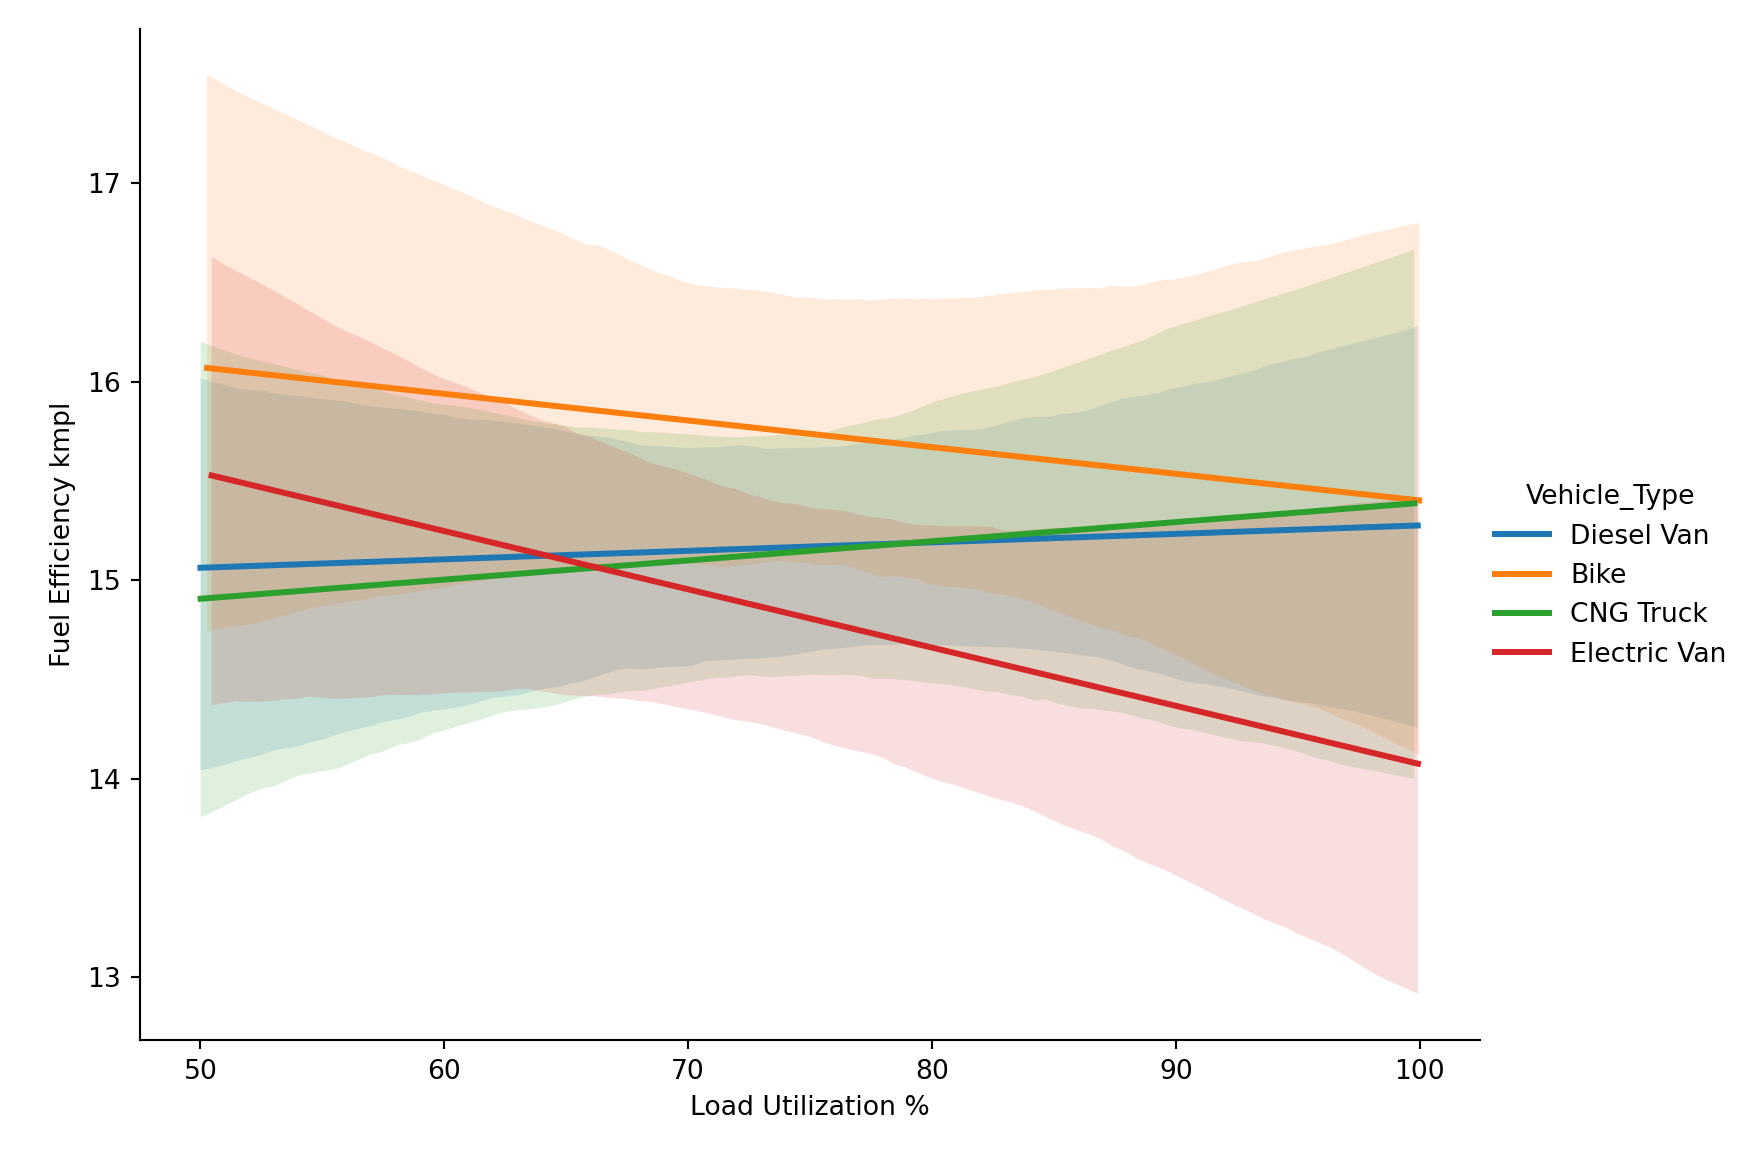
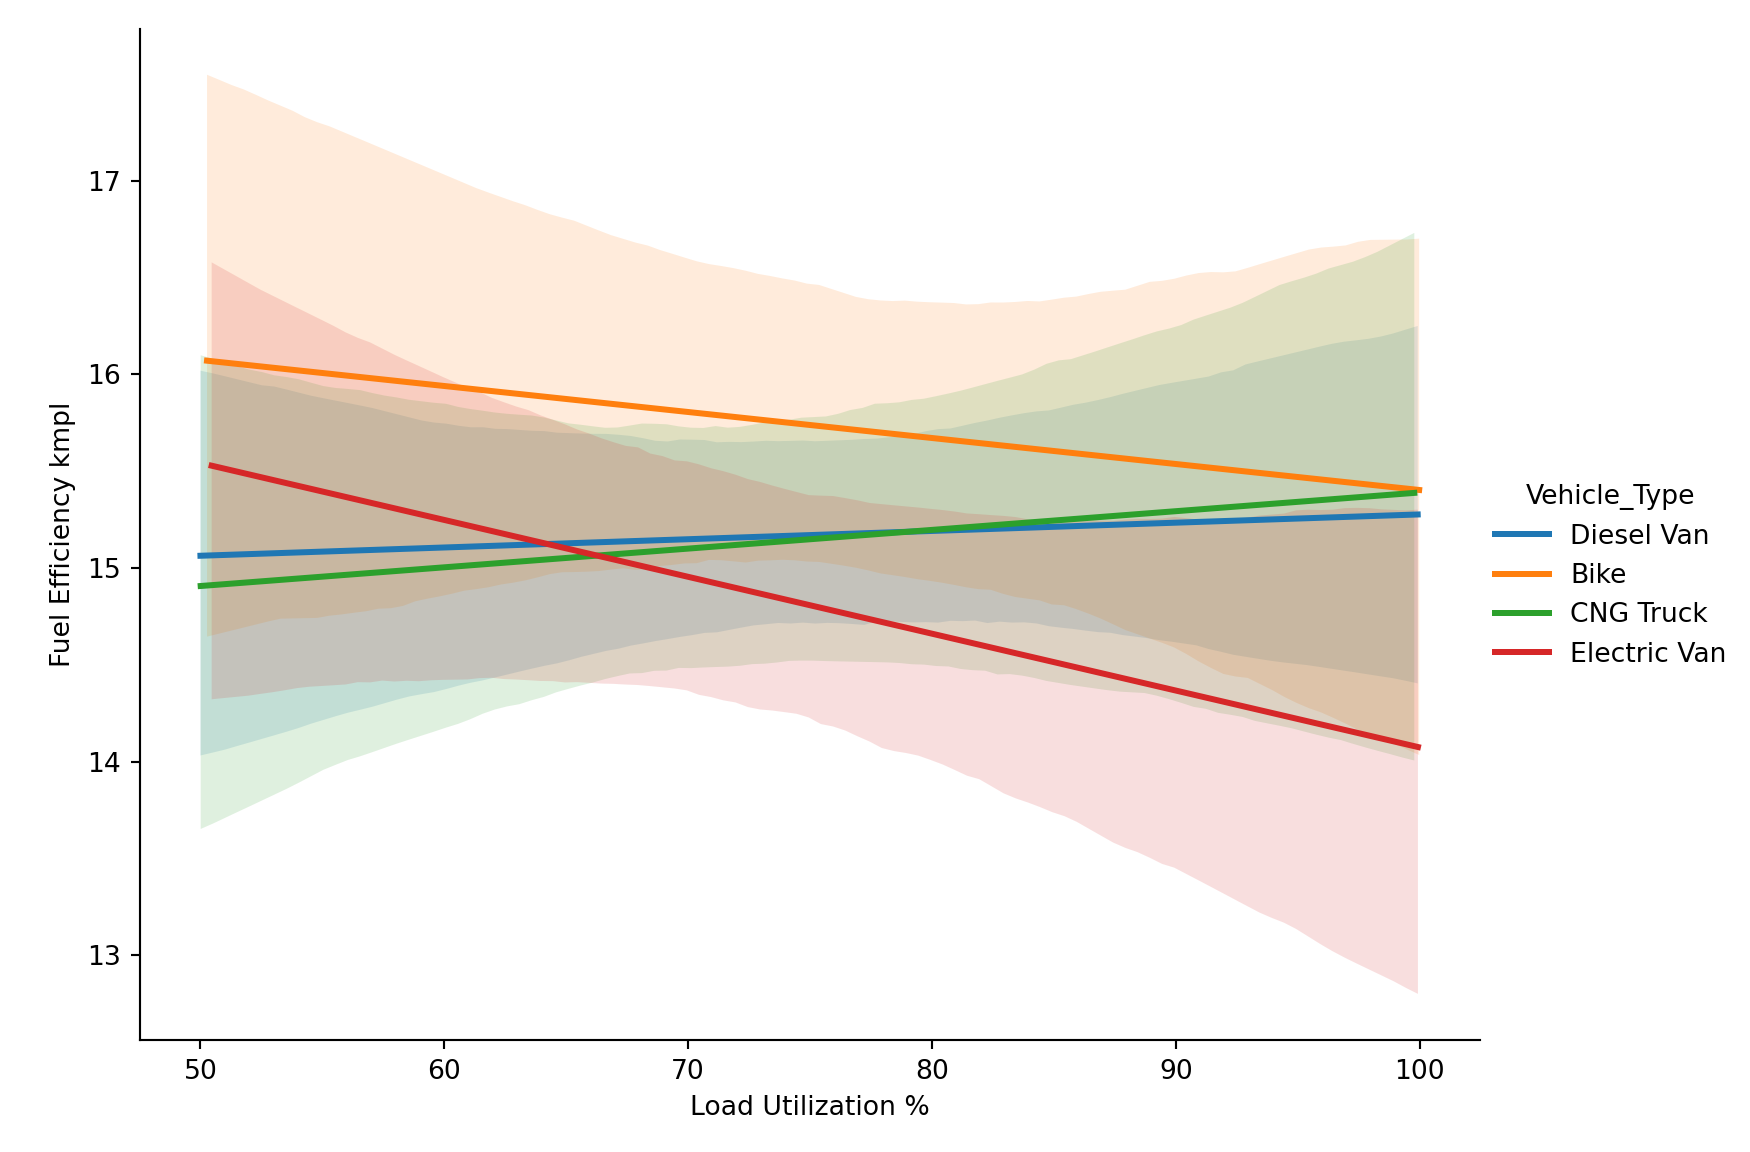
table fixes

diff --git a/docs/project_2.html b/docs/project_2.html
@@ -441,13 +441,22 @@ calculated in the previous step.</p>
 <div id="cluster-1" class="section level3">
 <h3>Cluster 1</h3>
 <pre class="python"><code>print(dom_features_per_cluster[0])</code></pre>
-<p>Device Type Mobile 60.21 Urban Rural Urban 50.05 Gender Male 48.09
-Gender Female 47.92 Age 36.89 Budgeting Style Moderate 33.39 Budgeting
-Style Strict 33.33 Budgeting Style Loose 33.28 Urban Rural Suburban
-30.08 Education Level Bachelor 29.86 Device Type Desktop 29.86 Education
-Level High School 29.71 Shopping Time Of Day Evening 25.11 Shopping Time
-Of Day Night 25.03 Shopping Time Of Day Afternoon 24.94 Name: 0, dtype:
-float64</p>
+<pre><code>Device Type Mobile                60.21
+Urban Rural Urban                 50.05
+Gender Male                       48.09
+Gender Female                     47.92
+Age                               36.89
+Budgeting Style Moderate          33.39
+Budgeting Style Strict            33.33
+Budgeting Style Loose             33.28
+Urban Rural Suburban              30.08
+Education Level Bachelor          29.86
+Device Type Desktop               29.86
+Education Level High School       29.71
+Shopping Time Of Day Evening      25.11
+Shopping Time Of Day Night        25.03
+Shopping Time Of Day Afternoon    24.94
+Name: 0, dtype: float64</code></pre>
 <ul>
 <li><strong>Split evenly among genders</strong> - Use gender neutral ads
 to maximise engagement</li>
@@ -467,27 +476,40 @@ click-and-collect</li>
 <div id="cluster-2" class="section level3">
 <h3>Cluster 2</h3>
 <pre class="python"><code>print(dom_features_per_cluster[1])</code></pre>
-<p>Cart Abandonment Rate 92.75 Stress From Financial Decisions 92.58
-Impulse Buying Score 92.28 Overall Stress Level 88.73 Impulse Purchases
-Per Month 83.70 Social Sharing Frequency 73.65 Device Type Mobile 60.16
-Urban Rural Urban 49.82 Gender Female 48.09 Gender Male 47.92 Budgeting
-Style Moderate 33.35 Budgeting Style Loose 33.34 Budgeting Style Strict
-33.30 Education Level High School 30.35 Urban Rural Suburban 30.11 Name:
-1, dtype: float64 - <strong>Very High cart abandonment rate</strong> -
-Offer promotional deals like free returns, or pay in installments, and
-make the buying process quicker with one-click payment to prevent
-customers backing out. Make sure to also save their carts if customers
-leave the site, and offer them discounts on the cart if they come back
-and pay. - <strong>Very impulsive</strong> - This is a relatively easy
+<pre><code>Cart Abandonment Rate              92.75
+Stress From Financial Decisions    92.58
+Impulse Buying Score               92.28
+Overall Stress Level               88.73
+Impulse Purchases Per Month        83.70
+Social Sharing Frequency           73.65
+Device Type Mobile                 60.16
+Urban Rural Urban                  49.82
+Gender Female                      48.09
+Gender Male                        47.92
+Budgeting Style Moderate           33.35
+Budgeting Style Loose              33.34
+Budgeting Style Strict             33.30
+Education Level High School        30.35
+Urban Rural Suburban               30.11
+Name: 1, dtype: float64</code></pre>
+<ul>
+<li><strong>Very High cart abandonment rate</strong> - Offer promotional
+deals like free returns, or pay in installments, and make the buying
+process quicker with one-click payment to prevent customers backing out.
+Make sure to also save their carts if customers leave the site, and
+offer them discounts on the cart if they come back and pay.</li>
+<li><strong>Very impulsive</strong> - This is a relatively easy
 behaviour to utilise because it works against the customer, offer them
-time sensitive deals like flash deals - <strong>Also predominantly on
-mobile devices</strong> - So utilise mobile push notifications about the
-cart abandonment deals and incorporate mobile paying services like apple
-pay as this will pair with their impulsivity if they don’t need to input
-card details, giving them time to think about their purchase and lose
-interest - <strong>High social sharing frequency</strong> - This can be
-a useful feature as it implies that people with respond to things like
-referral bonuses and sharing bonuses if they share on social media</p>
+time sensitive deals like flash deals</li>
+<li><strong>Also predominantly on mobile devices</strong> - So utilise
+mobile push notifications about the cart abandonment deals and
+incorporate mobile paying services like apple pay as this will pair with
+their impulsivity if they don’t need to input card details, giving them
+time to think about their purchase and lose interest</li>
+<li><strong>High social sharing frequency</strong> - This can be a
+useful feature as it implies that people with respond to things like
+referral bonuses and sharing bonuses if they share on social media</li>
+</ul>
 </div>
 </div>
 </div>

diff --git a/docs/project_1.html b/docs/project_1.html
@@ -452,9 +452,7 @@ sea_load_util = sea.lmplot(
   scatter = False 
   )
 plt.xlabel(&quot;Load Utilization %&quot;)</code></pre>
-<pre><code>Text(0.5, 29.140624999999964, &#39;Load Utilization %&#39;)</code></pre>
 <pre class="python"><code>plt.ylabel(&quot;Fuel Efficiency kmpl&quot;)</code></pre>
-<pre><code>Text(39.63154296875002, 0.5, &#39;Fuel Efficiency kmpl&#39;)</code></pre>
 <pre class="python"><code>plt.show()</code></pre>
 <p><img src="project_1_files/figure-html/load%20utilisation%20plot-1.png" width="875" /></p>
 </div>
@@ -532,6 +530,91 @@ combined_matrix = pd.concat(
 )
 
 combined_matrix.index = combined_matrix.index.map(&#39;_&#39;.join)</code></pre>
+<div style="text-align:center;">
+<table>
+<colgroup>
+<col width="28%" />
+<col width="11%" />
+<col width="18%" />
+<col width="19%" />
+<col width="22%" />
+</colgroup>
+<thead>
+<tr class="header">
+<th align="left"></th>
+<th align="right">Bike</th>
+<th align="right">CNG Truck</th>
+<th align="right">Diesel Van</th>
+<th align="right">Electric Van</th>
+</tr>
+</thead>
+<tbody>
+<tr class="odd">
+<td align="left">On_Time_Express</td>
+<td align="right">0.89</td>
+<td align="right">0.87</td>
+<td align="right">0.89</td>
+<td align="right">0.92</td>
+</tr>
+<tr class="even">
+<td align="left">On_Time_Same-day</td>
+<td align="right">0.95</td>
+<td align="right">0.92</td>
+<td align="right">0.93</td>
+<td align="right">0.9</td>
+</tr>
+<tr class="odd">
+<td align="left">On_Time_Standard</td>
+<td align="right">0.93</td>
+<td align="right">0.92</td>
+<td align="right">0.94</td>
+<td align="right">0.9</td>
+</tr>
+<tr class="even">
+<td align="left">CO2_kg_Express</td>
+<td align="right">2.72</td>
+<td align="right">11.86</td>
+<td align="right">18.77</td>
+<td align="right">4.07</td>
+</tr>
+<tr class="odd">
+<td align="left">CO2_kg_Same-day</td>
+<td align="right">2</td>
+<td align="right">11.93</td>
+<td align="right">20.89</td>
+<td align="right">3.7</td>
+</tr>
+<tr class="even">
+<td align="left">CO2_kg_Standard</td>
+<td align="right">2.41</td>
+<td align="right">12.39</td>
+<td align="right">18.12</td>
+<td align="right">4.08</td>
+</tr>
+<tr class="odd">
+<td align="left">Fuel_kmpl_Express</td>
+<td align="right">15.17</td>
+<td align="right">14.94</td>
+<td align="right">15.44</td>
+<td align="right">15.18</td>
+</tr>
+<tr class="even">
+<td align="left">Fuel_kmpl_Same-day</td>
+<td align="right">16.07</td>
+<td align="right">14.67</td>
+<td align="right">14.86</td>
+<td align="right">14.57</td>
+</tr>
+<tr class="odd">
+<td align="left">Fuel_kmpl_Standard</td>
+<td align="right">15.97</td>
+<td align="right">15.42</td>
+<td align="right">15.15</td>
+<td align="right">14.7</td>
+</tr>
+</tbody>
+</table>
+</div>
 <p>Now we can clearly see how the averages of the combinations stack up
 against the average for the whole variable, this shows us which
 combinations are preforming below average and could do with

diff --git a/docs/project_4.html b/docs/project_4.html
@@ -409,13 +409,9 @@ f_statistic, p_value = f_oneway(urgent_anova, emergency_anova, elective_anova)
 
 # Creating a plot to visualise the results
 sns.boxplot(p4_data_cleaned, x=&quot;admission_type&quot;, y=&quot;billing_amount&quot;) </code></pre>
-<pre><code>&lt;Axes: xlabel=&#39;admission_type&#39;, ylabel=&#39;billing_amount&#39;&gt;</code></pre>
 <pre class="python"><code>plt.title(&quot;Billing Amount by Admission Type&quot;) </code></pre>
-<pre><code>Text(0.5, 1.0, &#39;Billing Amount by Admission Type&#39;)</code></pre>
 <pre class="python"><code>plt.ylabel(&quot;Billing Amount /£&quot;)</code></pre>
-<pre><code>Text(0, 0.5, &#39;Billing Amount /£&#39;)</code></pre>
 <pre class="python"><code>plt.xlabel(&quot;Admission Type&quot;)</code></pre>
-<pre><code>Text(0.5, 0, &#39;Admission Type&#39;)</code></pre>
 <pre class="python"><code>plt.show()</code></pre>
 <p><img src="project_4_files/figure-html/anova%20test-1.png" width="672" /></p>
 <p>The results of my ANOVA shows no significance between the billing
